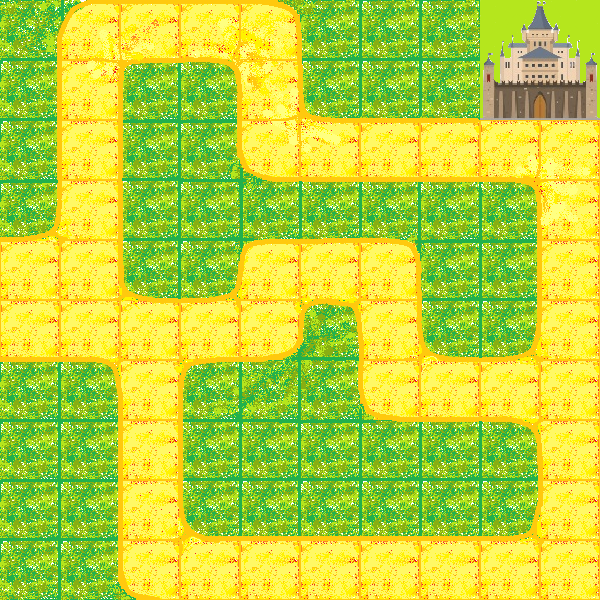
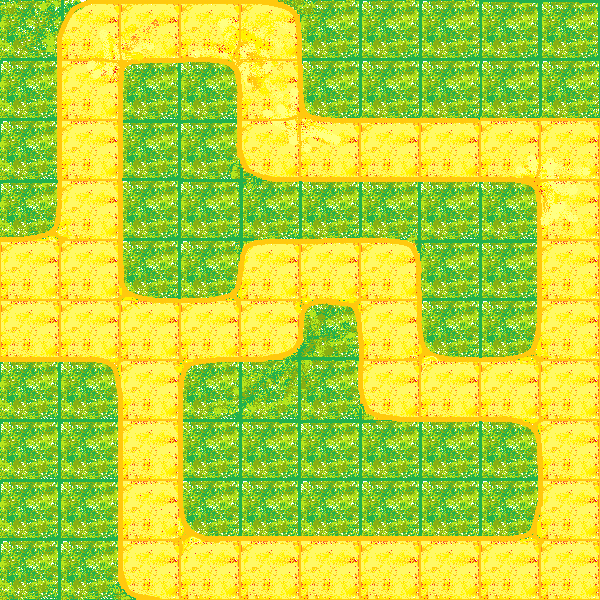
Добавил новый уровень

Changed region(s): [[0.78, 0.0, 1.0, 0.21]]

diff --git a/src/GameState.cpp b/src/GameState.cpp
@@ -38,7 +38,7 @@ GameState::GameState(StateManager& states) :
     delay_(1000),
     is_info_displayed_(false),
     level_path_(),
-    level_number_(1),
+    level_number_(2),
     max_level_number_(2),
     amount_of_waves_for_level_(2),
     amount_of_enemies_for_wave_(1),
@@ -137,6 +137,7 @@ void GameState::Load() {
   towers_.clear();
   enemies_.clear();
   projectiles_.clear();
+  RemoveInfoMenu();
 
   level_path_ = "assets/levels/" + std::to_string(level_number_);
   background_ptr_->LoadFromFile(level_path_ + "/bg.png");

diff --git a/src/Enemy.cpp b/src/Enemy.cpp
@@ -45,7 +45,8 @@ void Enemy::DoMove() {
       GetAvailableMoves(static_cast<int>(position_.x), static_cast<int>(position_.y));
   if (position_ == destination_point_) {
     if (possible_moves.empty()) {
-      if (x_ >= 540 && y_ <= 180) {
+      if (state_.GetStateManager().game_ptr_->GetMap()->
+          GetTile(static_cast<int>(position_.x / 60), static_cast<int>(y_ / 60)).GetNumber() == 1) {
         std::shared_ptr<Base> base_ptr = state_.GetStateManager().game_ptr_->GetBase();
         DoDamage(base_ptr);
         return;
